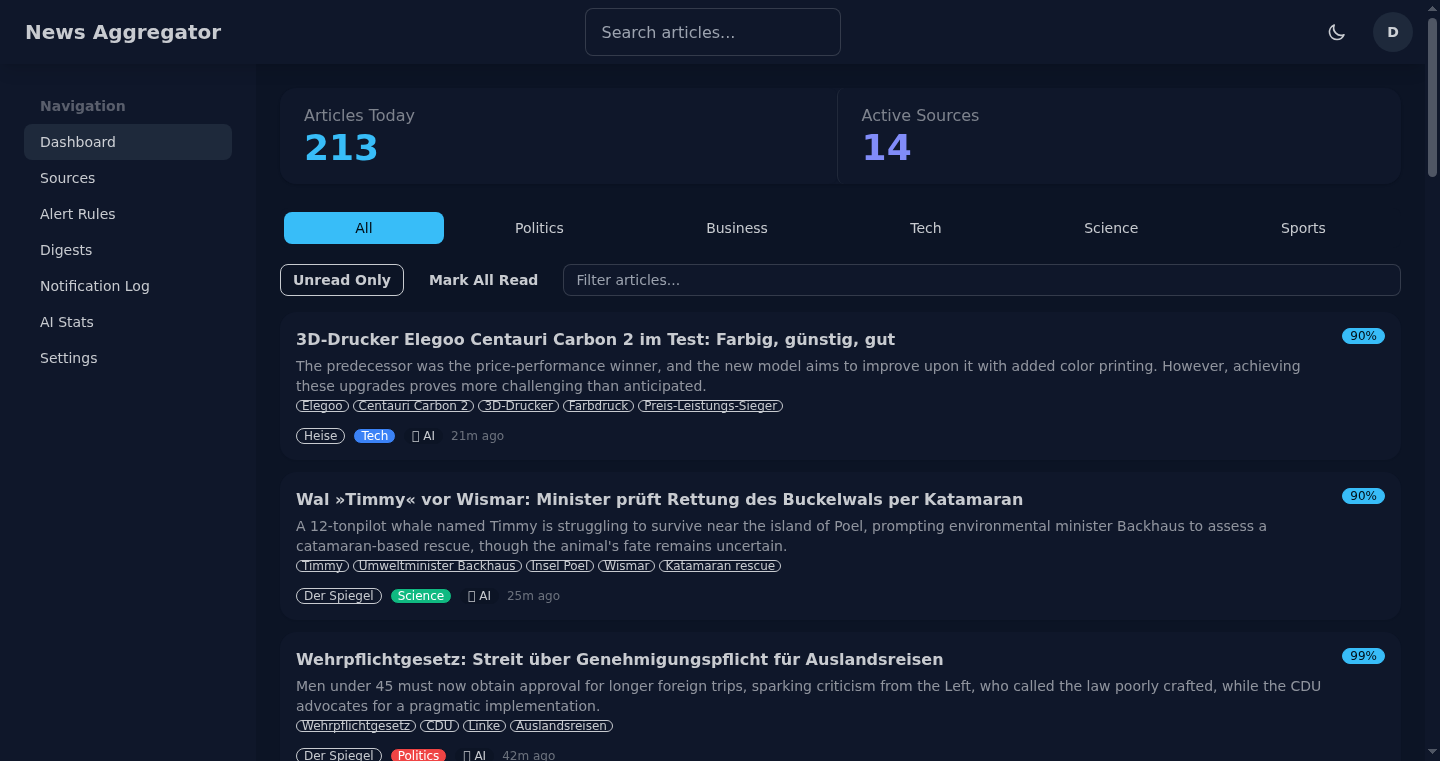
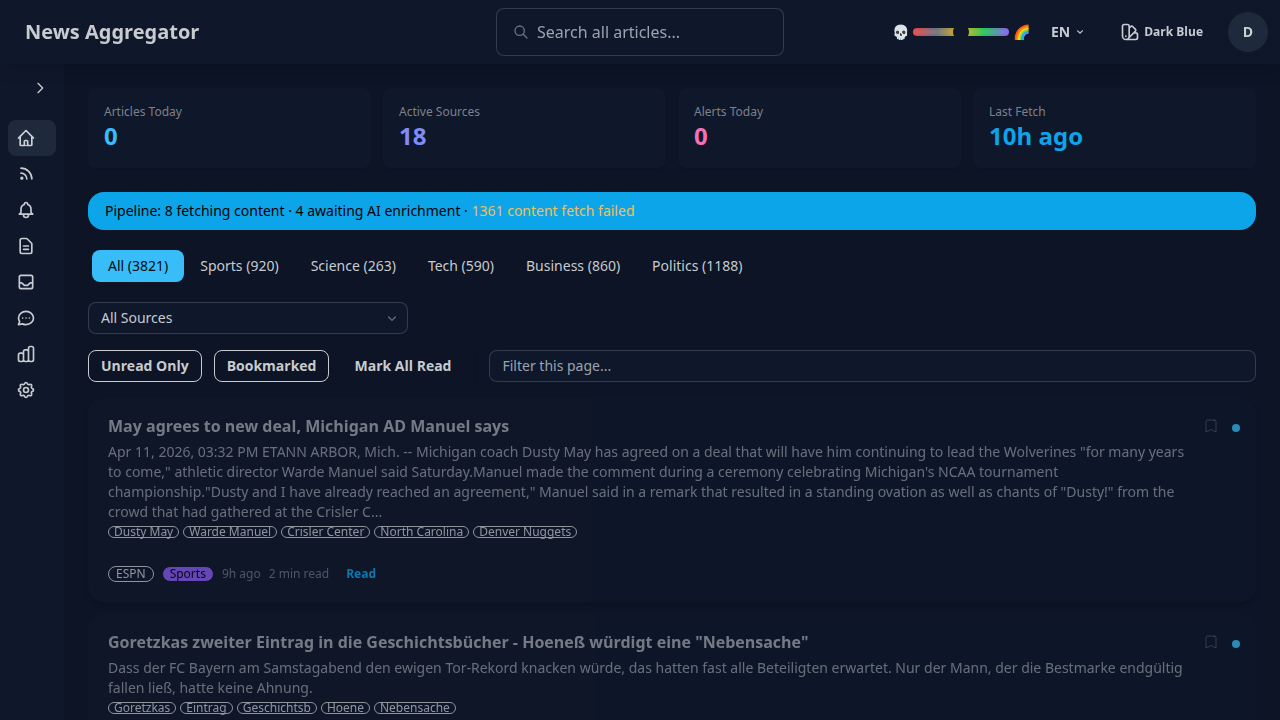
docs: add sentiment slider feature to documentation with screenshots
Add E2E-verified screenshots of the sentiment slider at +10, -10, and
pipeline status page. Update CLAUDE.md, README.md, and PITCH.md with
sentiment scoring details, navbar slider behavior, and competitive
advantage entry.

diff --git a/README.md b/README.md
@@ -12,6 +12,14 @@ Self-hosted, AI-enhanced RSS/Atom news aggregator built with Symfony 8 + Franken
 |---|---|
 | Alert rules with portfolio monitoring | Mobile-responsive layout |
 
+| ![Sentiment positive](docs/screenshots/sentiment-slider-positive.png) | ![Sentiment negative](docs/screenshots/sentiment-slider-negative.png) |
+|---|---|
+| Sentiment slider at +10 (optimistic) | Sentiment slider at -10 (critical) |
+
+| ![Chat](docs/screenshots/chat-working-with-sources.png) | ![Pipeline status](docs/screenshots/pipeline-sentiment-section.png) |
+|---|---|
+| RAG chat assistant with article sources | Pipeline status with sentiment scoring |
+
 ## Features
 
 - **RSS/Atom feed aggregation** from configurable sources
@@ -24,6 +32,8 @@ Self-hosted, AI-enhanced RSS/Atom news aggregator built with Symfony 8 + Franken
 - **Periodic digests** with AI-generated editorial summaries
 - **Full-text search** via SEAL + Loupe (zero infrastructure, SQLite-based) with auto-reindexing
 - **Inline article filter** — client-side search-as-you-type on the dashboard
+- **Sentiment scoring** — AI-extracted sentiment (-1.0 to +1.0) at zero extra cost, with rule-based keyword fallback
+- **Sentiment slider** — navbar range control (-10 to +10) re-ranks articles by mood; extreme values filter opposite sentiment; chat tone adapts
 - **Article scoring & ranking** based on recency, source reliability, and category weights
 - **Score explanation tooltip** — hover to see scoring breakdown
 - **Article bookmarks** — save for later, persist per-user, filter dashboard
@@ -239,7 +249,8 @@ Each fetched article goes through this pipeline:
 1. **Categorization** — assigns a category (politics, tech, business, science, sports)
 2. **Summarization** — generates a 1-2 sentence summary
 3. **Keyword extraction** — extracts 3-5 key entities (people, organizations, places, topics)
-4. **Translation** — translates title and summary if the source language differs from English
+4. **Sentiment scoring** — extracts sentiment from -1.0 to +1.0 (zero extra cost, same API call)
+5. **Translation** — translates title and summary if the source language differs from English
 
 All four steps use the same decorator pattern: AI tries first, rule-based fallback on failure. Keywords and translations are stored alongside the original content.
 
@@ -306,6 +317,29 @@ Runtime configuration is available at **Settings** in the sidebar. Settings use 
 
 Configurable values include display languages, fetch interval, article retention period, and log retention period.
 
+## Sentiment Slider
+
+Every article receives a sentiment score from -1.0 (negative) to +1.0 (positive) during AI enrichment -- extracted in the same API call at zero extra cost. Articles without AI enrichment use a rule-based fallback with ~30 positive/negative keyword lists (title weighted 2x, capped at +/-0.8).
+
+The navbar slider controls how sentiment affects your reading experience:
+
+| Slider Value | Behavior |
+|-------------|----------|
+| 0 (center) | No sentiment influence -- default ranking |
+| +/-1 to +/-5 | Boost articles matching your preferred sentiment |
+| +/-6 to +/-10 | Boost matching sentiment AND filter out opposite articles |
+
+![Sentiment slider positive](docs/screenshots/sentiment-slider-positive.png)
+
+The chat assistant also adapts its tone: hopeful and solution-focused at +4 and above, critical and risk-focused at -4 and below.
+
+Backfill existing articles:
+```bash
+make sf c="app:backfill-sentiment"
+```
+
+Monitor progress on the Pipeline Status page (`/settings/pipelines`).
+
 ## Data Retention
 
 Old articles and logs are pruned automatically by the `app:cleanup` command (run daily via the maintenance scheduler).
@@ -327,7 +361,7 @@ Domain-driven design with bounded contexts. See [docs/architecture.md](docs/arch
 ```
 Article    → core articles, scoring, deduplication
 Source     → feed management, fetching, health tracking
-Enrichment → rule-based + AI categorization/summarization
+Enrichment → rule-based + AI categorization/summarization/sentiment
 Notification → unified alert rules + Notifier dispatch
 Digest     → periodic AI-generated editorial summaries
 User       → authentication, per-user read state

diff --git a/CLAUDE.md b/CLAUDE.md
@@ -89,7 +89,7 @@ src/
 │   ├── Message/     # EnrichArticleMessage, FetchFullTextMessage, RescoreArticlesMessage
 │   ├── Service/     # ReadabilityExtractorService, ArticleContentFetcherService, DomainRateLimiterService
 │   └── MessageHandler/ # FetchSourceHandler (Phase 1), FetchFullTextHandler (Phase 1.5), EnrichArticleHandler (Phase 2)
-├── Enrichment/      # Rule-based + AI categorization/summarization/keywords/translation (decorator pattern)
+├── Enrichment/      # Rule-based + AI categorization/summarization/keywords/translation/sentiment (decorator pattern)
 ├── Source/          # Feed management, fetching (laminas-feed), health tracking
 │   └── Repository/  # SourceRepositoryInterface + Doctrine implementation
 ├── Notification/    # Unified alert rules (keyword/AI/both) + Notifier dispatch
@@ -136,6 +136,7 @@ src/
 - **Auto-reindex**: Doctrine listener indexes articles on persist/update; daily full reindex via maintenance scheduler
 - **Model quality tracking**: `ModelQualityTracker` records accept/reject per model across three categories (`enrichment`, `chat`, `embedding`). Chat and embedding services auto-instrument. `app:ai-model-stats` and `/stats/ai` show per-category quality tables.
 - **Blocked models**: `OPENROUTER_BLOCKED_MODELS` env var (comma-separated) for persistent manual overrides
+- **Sentiment scoring**: AI extracts sentiment (-1.0 to +1.0) in the same enrichment API call (zero extra cost). Rule-based fallback uses ~30 positive/negative keyword lists with title weighted 2x, capped at +/-0.8. DaisyUI range slider in navbar (-10 to +10) re-ranks dashboard articles by sentiment preference; values +/-6-10 also filter opposite sentiment. Chat system prompts adapt tone based on slider position. `app:backfill-sentiment` dispatches async Messenger jobs for existing articles. Pipeline status page tracks scoring progress.
 
 ## Key Environment Variables
 

diff --git a/PITCH.md b/PITCH.md
@@ -17,6 +17,7 @@ A self-hosted RSS/Atom aggregator that uses free AI models to categorize, summar
 - Phase 1.5 (sync): full-text article fetch via Readability with per-domain rate limiting
 - Phase 2 (async): AI enrichment via OpenRouter free models -- articles upgrade in-place when complete
 - Keyword quality filter removes noise tokens, keeps named entities (people, orgs, places)
+- Sentiment scoring (-1.0 to +1.0) extracted in the same AI call at zero extra cost; rule-based keyword fallback
 - Multi-language translation to all configured display languages (EN/DE/FR) with originals preserved
 
 **Smart Alerts**
@@ -36,6 +37,8 @@ A self-hosted RSS/Atom aggregator that uses free AI models to categorize, summar
 **Scoring & Ranking**
 - Category weight, recency decay, source reliability, multi-source coverage bonus
 - AI confidence boost for enriched articles
+- Sentiment slider (-10 to +10) in navbar re-ranks articles by mood; extreme values filter opposite sentiment
+- Chat assistant tone adapts based on slider position (hopeful at +4+, critical at -4-)
 - Score explanation tooltip on every article
 - Periodic rescoring keeps rankings fresh
 
@@ -76,6 +79,7 @@ A self-hosted RSS/Atom aggregator that uses free AI models to categorize, summar
 | Smart alerts with AI | No | No | Paid | Paid | No | **Free** |
 | AI editorial digests | No | No | No | No | No | **Yes** |
 | Full-text fetch (Readability) | Yes | Partial | Yes | Yes | Yes | **Yes** |
+| Sentiment-based ranking | No | No | No | No | No | **AI + rule-based, slider UI** |
 | Content deduplication | Basic | No | No | No | No | **URL + title + fingerprint** |
 | Real-time push (SSE) | No | No | No | No | No | **Mercure SSE** |
 | Rule-based fallback | N/A | N/A | N/A | N/A | N/A | **Always active** |
